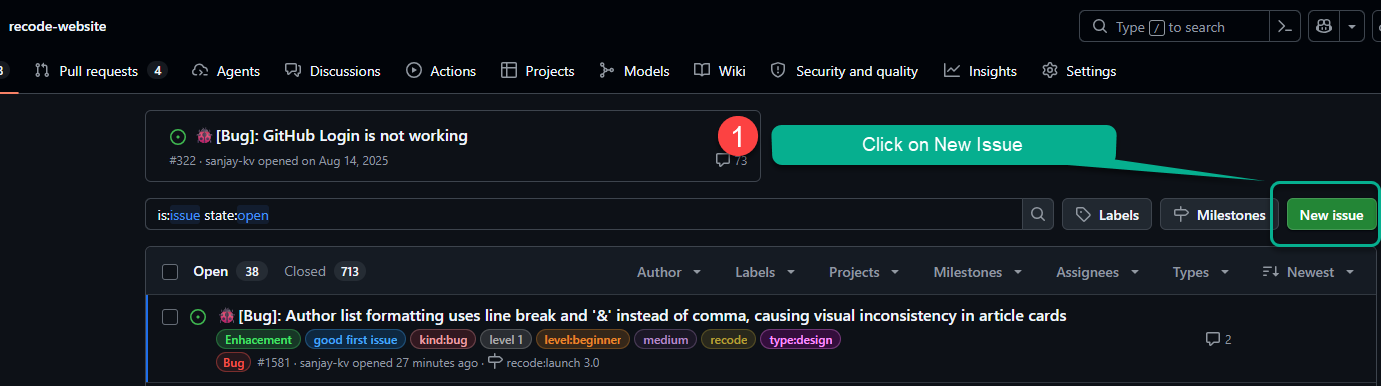
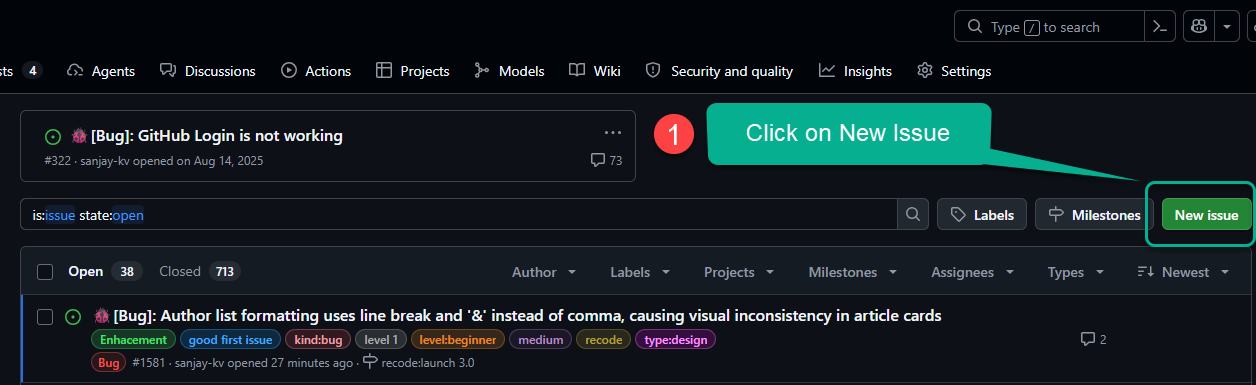
Merge pull request #1602 from recodehive/blog/contributions
Blog/contributions

Pull request: Blog/contributions
## Description

<!-- 
Provide a brief summary of the changes made to the website and the motivation behind them. Include any relevant issues or tickets.
This helps fast tracking your PR and merge it, Check the respective box below.
-->
Fixes # (issue)

## Type of Change

- [ ] New feature (e.g., new page, component, or functionality)
- [ ] Bug fix (non-breaking change that fixes an issue)
- [ ] UI/UX improvement (design, layout, or styling updates)
- [ ] Performance optimization (e.g., code splitting, caching)
- [ ] Documentation update (README, contribution guidelines, etc.)
- [ ] Other (please specify):

## Changes Made

<!--
Describe the key changes (e.g., new sections, updated components, responsive fixes).
-->

## Dependencies

- List any new dependencies or tools required for this change.
- Mention any version updates or configurations that need to be considered.

## Checklist

- [ ] My code follows the style guidelines of this project.
- [ ] I have tested my changes across major browsers and devices
- [ ] My changes do not generate new console warnings or errors .
- [ ] I ran `npm run build` and attached screenshot(s) in this PR.
- [ ] This is already assigned Issue to me, not an unassigned issue.

diff --git a/src/components/particle.tsx b/src/components/particle.tsx
@@ -1,17 +1,11 @@
 import * as React from "react";
-import Particles, { initParticlesEngine } from "@tsparticles/react";
-import { useEffect, useMemo, useState } from "react";
+import Particles, { ParticlesProvider } from "@tsparticles/react";
+import { useCallback, useMemo } from "react";
 import { loadSlim } from "@tsparticles/slim";
 
 const ParticlesComponent = (props) => {
-  const [init, setInit] = useState(false);
-
-  useEffect(() => {
-    initParticlesEngine(async (engine) => {
-      await loadSlim(engine);
-    }).then(() => {
-      setInit(true);
-    });
+  const particlesInit = useCallback(async (engine) => {
+    await loadSlim(engine);
   }, []);
 
   const particlesLoaded = (container) => {
@@ -96,19 +90,21 @@ const ParticlesComponent = (props) => {
   );
 
   return (
-    <div
-      style={{
-        position: "fixed",
-        width: "100vw",
-        height: "100vh",
-        top: 0,
-        left: 0,
-        zIndex: -1, // Critical: ensures it's in the background
-        pointerEvents: "none", // Ensures it doesn't block clicks
-      }}
-    >
-      <Particles id={props.id} options={options} />
-    </div>
+    <ParticlesProvider init={particlesInit}>
+      <div
+        style={{
+          position: "fixed",
+          width: "100vw",
+          height: "100vh",
+          top: 0,
+          left: 0,
+          zIndex: -1, // Critical: ensures it's in the background
+          pointerEvents: "none", // Ensures it doesn't block clicks
+        }}
+      >
+        <Particles id={props.id} options={options} particlesLoaded={particlesLoaded} />
+      </div>
+    </ParticlesProvider>
   );
 };
 

diff --git a/docs/getting_started.md b/docs/getting_started.md
@@ -17,42 +17,46 @@ This guide walks you through everything you need to write and publish a blog pos
 :::
 ---
 
-## Step 1: Raise a New issue 
+## Step 1: Raise a New issue on GitHub
 
-Head to the the GitHub issue on this [repository](https://github.com/recodehive/recode-website/issues)
-     <BrowserWindow url="https://github.com/recodehive/recode-website/issues" bodyStyle={{padding: 0}}>    
+Head to the the GitHub issue on this [repository](https://github.com/recodehive/recode-website/issues), raise an new issue under documentation update. 
+    :::info
+    * Few things to remember, don't raise random generic topics.
+    * Write from real experience, try to include real dashboard pictures, no copy paste articles.
+    * You can generate AI pictures, but need to be edited any tools like Canva.
+    * Your article must teach something offical documentation doesnot. Means no Intro to X or What is X.
+    * Start working on Issue When its assigned to you by @sanjay-kv or any Maintainer. ref step 4.
+<Tabs>
+  <TabItem value="Step 1" label="Step 1">
+    <BrowserWindow url="https://github.com/recodehive/recode-website/issues" bodyStyle={{padding: 0}}>    
      [![Github](assets\blog-01-new-issue.png)](https://github.com/recodehive/recode-website/issues)
     </BrowserWindow>
+  </TabItem>
 
+<TabItem value="Step 2" label="Step 2">
+     <BrowserWindow url="https://github.com/recodehive/recode-website/documentation" bodyStyle={{padding: 0}}>    
+     [![Github](assets\blog-02-new-issue.png)](https://github.com/recodehive/recode-website/documentations)
+    </BrowserWindow>
 
-## Step 1: Fork and Clone the Repository
+  </TabItem>
+    
+  <TabItem value="Step 3" label="Step 3">
+      <BrowserWindow url="https://github.com/recodehive/recode-website/issues/1586" bodyStyle={{padding: 0}}>    
+     [![Github](assets\blog-03-new-issue.png)](https://github.com/recodehive/recode-website/issues/1577)
+    </BrowserWindow>
+    </TabItem>
 
-1. Go to [https://github.com/recodehive/recode-website](https://github.com/recodehive/recode-website) and click **Fork** (top-right corner).
+  <TabItem value="Step 4" label="Step 4">
+      <BrowserWindow url="https://github.com/recodehive/recode-website/issues/1577" bodyStyle={{padding: 0}}>    
+     [![Github](assets\blog-04-new-issue.png)](https://github.com/recodehive/recode-website/issues/1577)
+    </BrowserWindow>
+    </TabItem>
+  
+</Tabs>
 
-2. Clone your fork to your local machine:
+:::
 
-   ```bash
-   git clone https://github.com/your-username/recode-website.git
-   cd recode-website
-   ```
-
-3. Add the upstream remote so you can stay in sync:
-
-   ```bash
-   git remote add upstream https://github.com/recodehive/recode-website.git
-   ```
-
----
-
-## Step 2: Install Dependencies and Run Locally
-
-```bash
-npm install
-npm start
-```
-
-This starts a local development server. Open [http://localhost:3000](http://localhost:3000) in your browser to preview the site live. Changes you make to files will hot-reload automatically.
-
+#### Just follow the steps on forking the repositories and installing the dependencies on your local repository, if you dont know refer the steps 2 to 6 on [welcome page](https://www.recodehive.com/docs/).
 ---
 
 ## Step 3: Create a New Branch